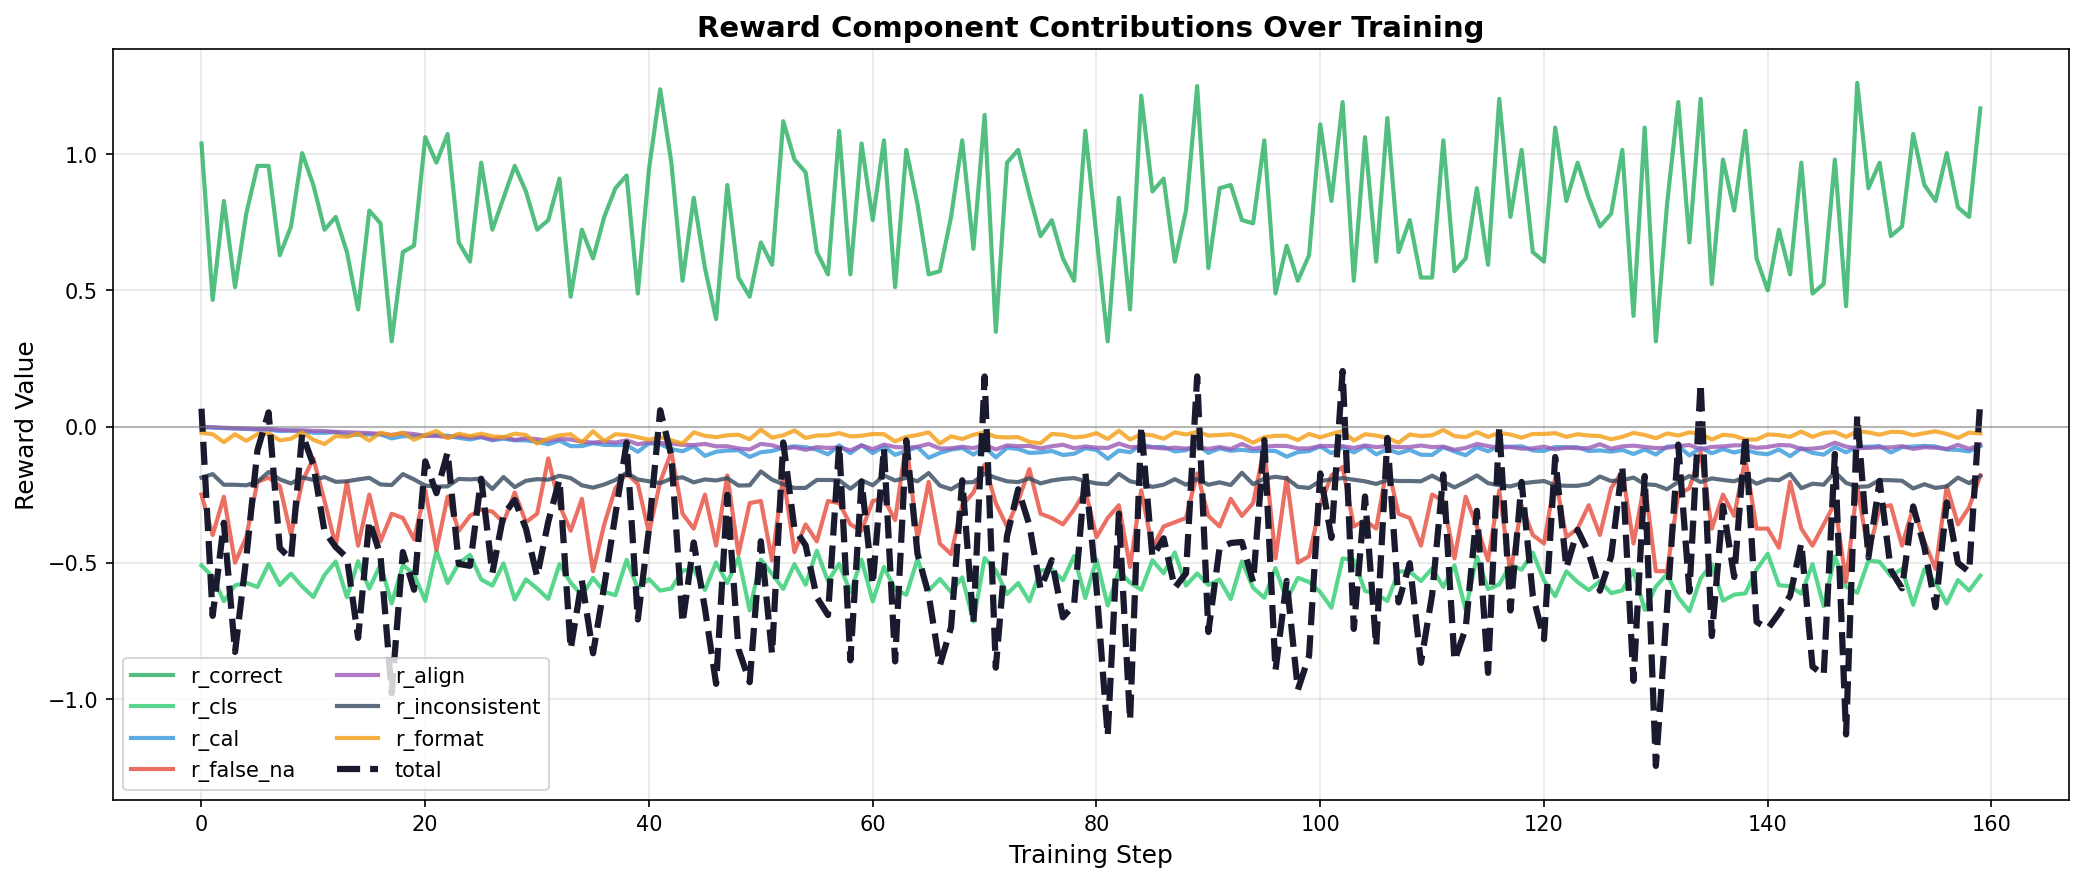
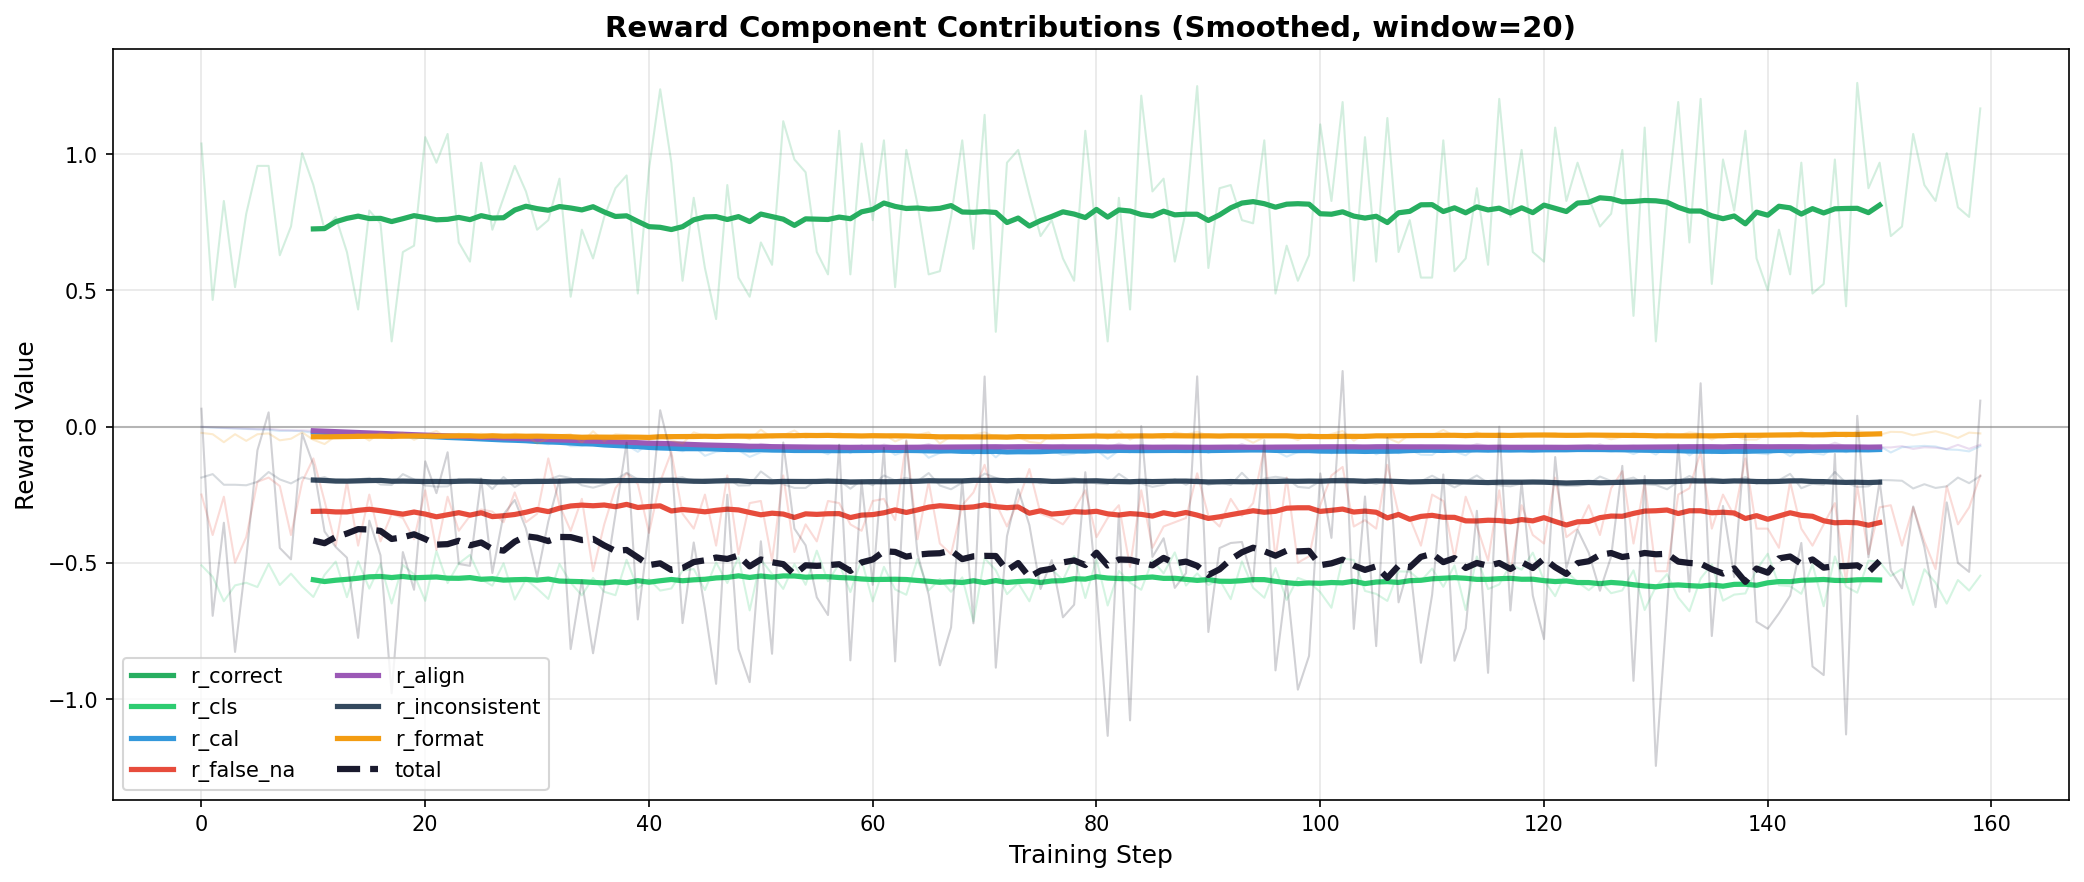
better plotting

diff --git a/plot_training_metrics.py b/plot_training_metrics.py
@@ -17,10 +17,28 @@ def load_metrics(path: str = "training_metrics.json") -> list[dict]:
         return json.load(f)
 
 
+def smooth_values(values: list, window: int) -> tuple[list, list]:
+    """Apply moving average smoothing to values.
+    
+    Returns:
+        tuple: (smoothed_values, valid_indices) - smoothed data and corresponding step indices
+    """
+    if len(values) < window:
+        return values, list(range(len(values)))
+    smoothed = np.convolve(values, np.ones(window)/window, mode='valid')
+    # The valid indices start at window-1 (center of first window)
+    start_idx = window // 2
+    indices = list(range(start_idx, start_idx + len(smoothed)))
+    return smoothed.tolist(), indices
+
+
 def plot_cumulative_rewards(metrics: list[dict], output_path: str = "rewards_cumulative.png"):
-    """Plot cumulative rewards per component over training steps."""
+    """Plot cumulative rewards per component over training steps.
+    
+    Shows both raw per-step values (with low opacity) and smoothed trend lines.
+    """
     steps = [m["step"] for m in metrics]
-    desired = ["r_correct", "r_cls", "r_cal", "r_conf", "r_false_na", "r_align", "r_inconsistent", "r_format", "total"]
+    desired = ["r_correct", "r_cls", "r_cal", "r_conf", "r_false_na", "r_align", "r_inconsistent", "r_format", "r_entropy", "total"]
     # Backward compatible: only plot keys that exist in the metrics file.
     available = set(metrics[0].get("cumulative", {}).keys()) if metrics else set()
     components = [c for c in desired if c in available]
@@ -33,9 +51,12 @@ def plot_cumulative_rewards(metrics: list[dict], output_path: str = "rewards_cum
         "r_align": "#9b59b6",
         "r_inconsistent": "#34495e",
         "r_format": "#f39c12",
+        "r_entropy": "#1abc9c",
         "total": "#1a1a2e",
     }
-    colors = [palette[c] for c in components]
+    
+    # Calculate smoothing window (adaptive based on data size)
+    window = min(20, max(5, len(metrics) // 8)) if len(metrics) > 10 else 1
     
     fig, (ax1, ax2) = plt.subplots(2, 1, figsize=(12, 10))
     
@@ -44,11 +65,21 @@ def plot_cumulative_rewards(metrics: list[dict], output_path: str = "rewards_cum
     for comp in comps_wo_total:
         color = palette[comp]
         values = [m["cumulative"][comp] for m in metrics]
-        ax1.plot(steps, values, label=comp, color=color, linewidth=2, alpha=0.8)
+        
+        # Plot raw values with low opacity
+        ax1.plot(steps, values, color=color, linewidth=1, alpha=0.25)
+        
+        # Plot smoothed trend line
+        if len(values) > window:
+            smoothed, smooth_indices = smooth_values(values, window)
+            smooth_steps = [steps[i] for i in smooth_indices if i < len(steps)]
+            ax1.plot(smooth_steps[:len(smoothed)], smoothed, label=comp, color=color, linewidth=2.5)
+        else:
+            ax1.plot(steps, values, label=comp, color=color, linewidth=2.5)
     
     ax1.set_xlabel("Training Step", fontsize=12)
     ax1.set_ylabel("Reward Value", fontsize=12)
-    ax1.set_title("Reward Components Over Training (Cumulative)", fontsize=14, fontweight="bold")
+    ax1.set_title(f"Reward Components Over Training (Smoothed, window={window})", fontsize=14, fontweight="bold")
     ax1.legend(loc="best", fontsize=10)
     ax1.grid(True, alpha=0.3)
     ax1.axhline(y=0, color='gray', linestyle='--', alpha=0.5)
@@ -56,8 +87,18 @@ def plot_cumulative_rewards(metrics: list[dict], output_path: str = "rewards_cum
     # Plot total reward (if present)
     if "total" in available:
         total_values = [m["cumulative"]["total"] for m in metrics]
-        ax2.plot(steps, total_values, label="Total Reward", color=palette["total"], linewidth=2.5)
-        ax2.fill_between(steps, total_values, alpha=0.3, color=palette["total"])
+        
+        # Plot raw values with low opacity and fill
+        ax2.plot(steps, total_values, color=palette["total"], linewidth=1, alpha=0.3)
+        ax2.fill_between(steps, total_values, alpha=0.15, color=palette["total"])
+        
+        # Plot smoothed trend line
+        if len(total_values) > window:
+            smoothed, smooth_indices = smooth_values(total_values, window)
+            smooth_steps = [steps[i] for i in smooth_indices if i < len(steps)]
+            ax2.plot(smooth_steps[:len(smoothed)], smoothed, label=f"Smoothed (window={window})", 
+                     color="#e74c3c", linewidth=2.5)
+            ax2.legend(loc="best", fontsize=10)
     
     ax2.set_xlabel("Training Step", fontsize=12)
     ax2.set_ylabel("Total Reward", fontsize=12)
@@ -72,13 +113,16 @@ def plot_cumulative_rewards(metrics: list[dict], output_path: str = "rewards_cum
 
 
 def plot_rewards_by_outcome(metrics: list[dict], output_path: str = "rewards_by_outcome.png"):
-    """Plot rewards per component for each outcome (NA, PASS, FAIL)."""
+    """Plot rewards per component for each outcome (NA, PASS, FAIL) with smoothing."""
     steps = [m["step"] for m in metrics]
-    desired = ["r_correct", "r_cls", "r_cal", "r_conf", "r_false_na", "r_align", "r_inconsistent", "r_format", "total"]
+    desired = ["r_correct", "r_cls", "r_cal", "r_conf", "r_false_na", "r_align", "r_inconsistent", "r_format", "r_entropy", "total"]
     available = set(metrics[0].get("by_outcome", {}).get("NA", {}).keys()) if metrics else set()
     components = [c for c in desired if c in available]
     outcomes = ["NA", "PASS", "FAIL"]
     outcome_colors = {"NA": "#e74c3c", "PASS": "#2ecc71", "FAIL": "#3498db"}
+    
+    # Calculate smoothing window
+    window = min(20, max(5, len(metrics) // 8)) if len(metrics) > 10 else 1
     
     # Grid size depends on component count
     n = max(len(components), 1)
@@ -91,7 +135,18 @@ def plot_rewards_by_outcome(metrics: list[dict], output_path: str = "rewards_by_
         ax = axes[idx]
         for outcome in outcomes:
             values = [m["by_outcome"][outcome][comp] for m in metrics]
-            ax.plot(steps, values, label=outcome, color=outcome_colors[outcome], linewidth=2, alpha=0.8)
+            color = outcome_colors[outcome]
+            
+            # Plot raw with low opacity
+            ax.plot(steps, values, color=color, linewidth=1, alpha=0.2)
+            
+            # Plot smoothed
+            if len(values) > window:
+                smoothed, smooth_indices = smooth_values(values, window)
+                smooth_steps = [steps[i] for i in smooth_indices if i < len(steps)]
+                ax.plot(smooth_steps[:len(smoothed)], smoothed, label=outcome, color=color, linewidth=2)
+            else:
+                ax.plot(steps, values, label=outcome, color=color, linewidth=2)
         
         ax.set_xlabel("Step", fontsize=10)
         ax.set_ylabel("Value", fontsize=10)
@@ -104,7 +159,7 @@ def plot_rewards_by_outcome(metrics: list[dict], output_path: str = "rewards_by_
     for j in range(len(components), len(axes)):
         axes[j].set_visible(False)
     
-    plt.suptitle("Reward Components by Outcome Over Training", fontsize=14, fontweight="bold", y=1.02)
+    plt.suptitle(f"Reward Components by Outcome (Smoothed, window={window})", fontsize=14, fontweight="bold", y=1.02)
     plt.tight_layout()
     plt.savefig(output_path, dpi=150, bbox_inches="tight")
     print(f"Saved rewards by outcome plot to {output_path}")
@@ -143,9 +198,9 @@ def plot_accuracy(metrics: list[dict], output_path: str = "accuracy.png"):
 
 
 def plot_component_contribution(metrics: list[dict], output_path: str = "component_contribution.png"):
-    """Plot stacked area chart showing how each component contributes to total reward."""
+    """Plot smoothed component contributions showing how each component contributes to total reward."""
     steps = [m["step"] for m in metrics]
-    desired = ["r_correct", "r_cls", "r_cal", "r_conf", "r_false_na", "r_align", "r_inconsistent", "r_format"]
+    desired = ["r_correct", "r_cls", "r_cal", "r_conf", "r_false_na", "r_align", "r_inconsistent", "r_format", "r_entropy"]
     available = set(metrics[0].get("cumulative", {}).keys()) if metrics else set()
     components = [c for c in desired if c in available]
     palette = {
@@ -157,26 +212,43 @@ def plot_component_contribution(metrics: list[dict], output_path: str = "compone
         "r_align": "#9b59b6",
         "r_inconsistent": "#34495e",
         "r_format": "#f39c12",
+        "r_entropy": "#1abc9c",
     }
-    colors = [palette[c] for c in components]
+    
+    # Calculate smoothing window
+    window = min(20, max(5, len(metrics) // 8)) if len(metrics) > 10 else 1
     
     fig, ax = plt.subplots(figsize=(14, 6))
     
-    # Get component values
-    data = {comp: [m["cumulative"][comp] for m in metrics] for comp in components}
+    # Get component values and plot with smoothing
+    for comp in components:
+        color = palette[comp]
+        values = [m["cumulative"][comp] for m in metrics]
+        
+        # Plot raw with low opacity
+        ax.plot(steps, values, color=color, linewidth=1, alpha=0.2)
+        
+        # Plot smoothed
+        if len(values) > window:
+            smoothed, smooth_indices = smooth_values(values, window)
+            smooth_steps = [steps[i] for i in smooth_indices if i < len(steps)]
+            ax.plot(smooth_steps[:len(smoothed)], smoothed, label=comp, color=color, linewidth=2.5)
+        else:
+            ax.plot(steps, values, label=comp, color=color, linewidth=2.5)
     
-    # For stacked area, we need to separate positive and negative contributions
-    # Let's just plot lines with markers for clarity
-    for comp, color in zip(components, colors):
-        ax.plot(steps, data[comp], label=comp, color=color, linewidth=2, alpha=0.8)
-    
-    # Add total line
+    # Add total line with smoothing
     total = [m["cumulative"]["total"] for m in metrics]
-    ax.plot(steps, total, label="total", color="#1a1a2e", linewidth=3, linestyle="--")
+    ax.plot(steps, total, color="#1a1a2e", linewidth=1, alpha=0.2)
+    if len(total) > window:
+        smoothed, smooth_indices = smooth_values(total, window)
+        smooth_steps = [steps[i] for i in smooth_indices if i < len(steps)]
+        ax.plot(smooth_steps[:len(smoothed)], smoothed, label="total", color="#1a1a2e", linewidth=3, linestyle="--")
+    else:
+        ax.plot(steps, total, label="total", color="#1a1a2e", linewidth=3, linestyle="--")
     
     ax.set_xlabel("Training Step", fontsize=12)
     ax.set_ylabel("Reward Value", fontsize=12)
-    ax.set_title("Reward Component Contributions Over Training", fontsize=14, fontweight="bold")
+    ax.set_title(f"Reward Component Contributions (Smoothed, window={window})", fontsize=14, fontweight="bold")
     ax.legend(loc="best", fontsize=10, ncol=2)
     ax.grid(True, alpha=0.3)
     ax.axhline(y=0, color='gray', linestyle='-', alpha=0.5, linewidth=1)
@@ -215,7 +287,7 @@ def main():
         print(f"Steps: {first['step']} → {last['step']}")
         print(f"Accuracy: {first['accuracy']:.3f} → {last['accuracy']:.3f}")
         print(f"\nFinal Cumulative Rewards:")
-        for comp in ["r_correct", "r_cls", "r_cal", "r_conf", "r_false_na", "r_align", "r_inconsistent", "r_format", "total"]:
+        for comp in ["r_correct", "r_cls", "r_cal", "r_conf", "r_false_na", "r_align", "r_inconsistent", "r_format", "r_entropy", "total"]:
             if comp in last.get("cumulative", {}):
                 print(f"  {comp}: {last['cumulative'][comp]:.4f}")
 

diff --git a/train_grpo.py b/train_grpo.py
@@ -811,7 +811,7 @@ async def run_training():
         json.dump(metrics_history, f, indent=2)
     print(f"Saved training metrics to training_metrics.json")
     
-    final_path = (await training_client.save_weights_for_sampler_async(name="self-aware-grpo-trial-4")).result().path
+    final_path = (await training_client.save_weights_for_sampler_async(name="self-aware-grpo-mixed-regularization-trial-1")).result().path
     print(f"\nTraining complete. Final checkpoint: {final_path}")
     return final_path
 
